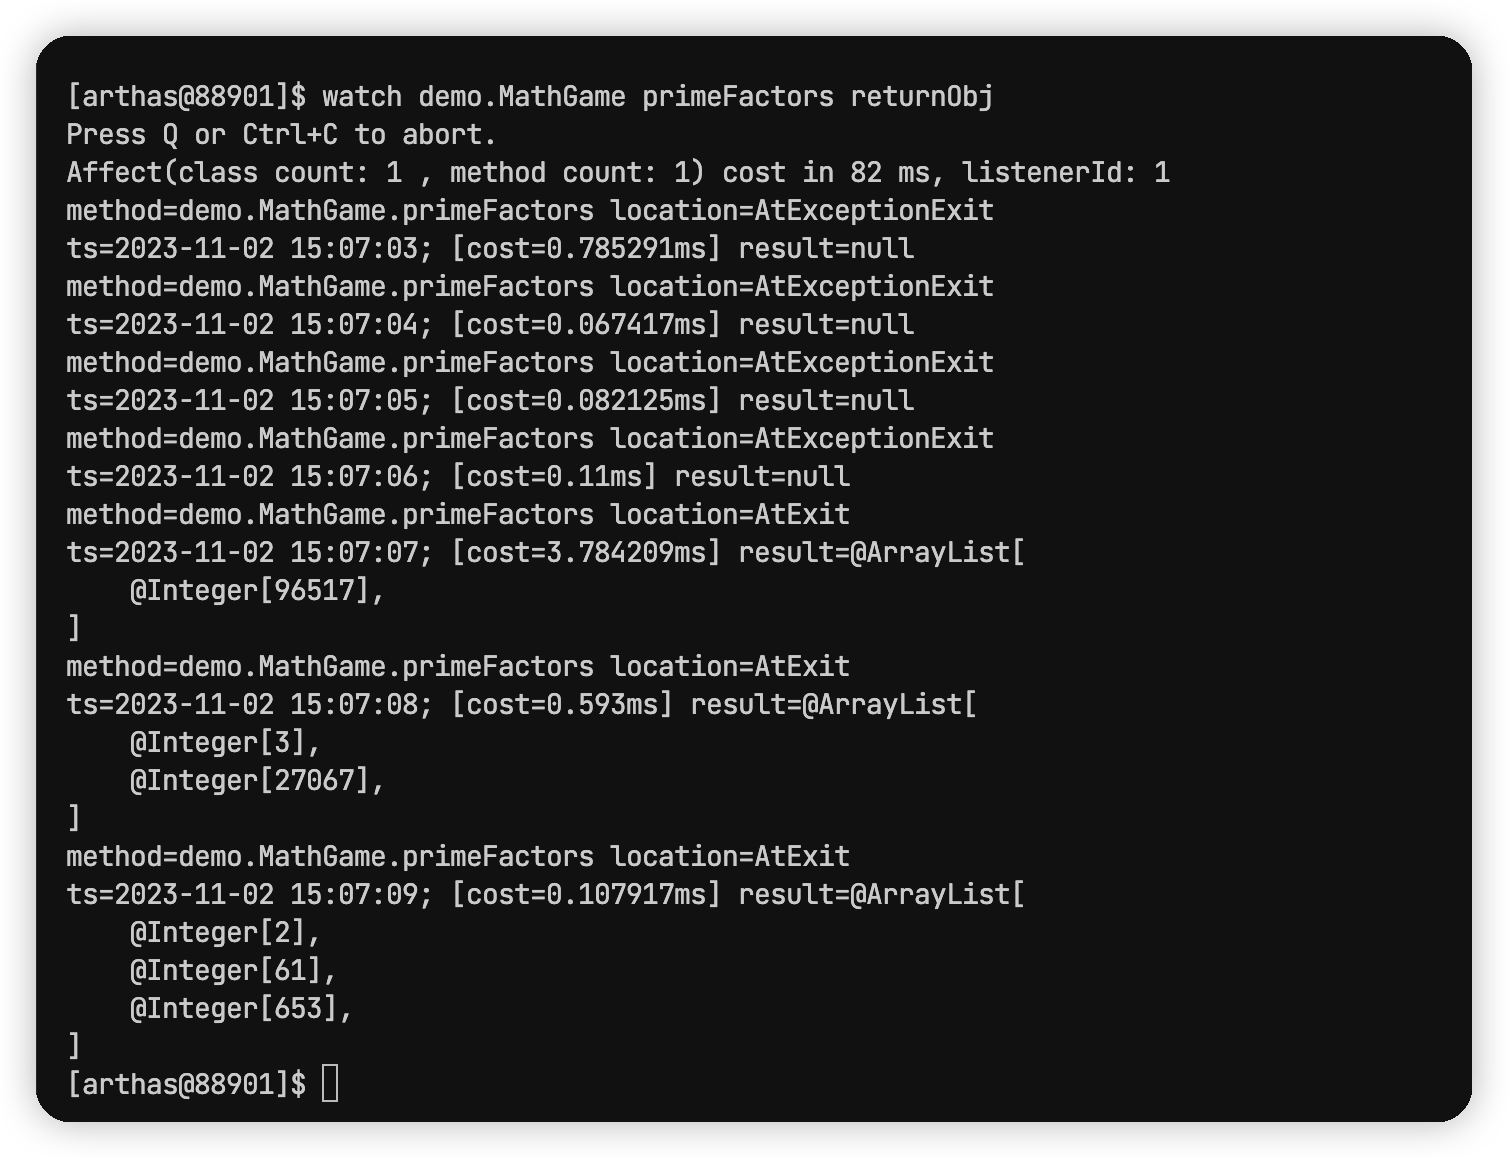
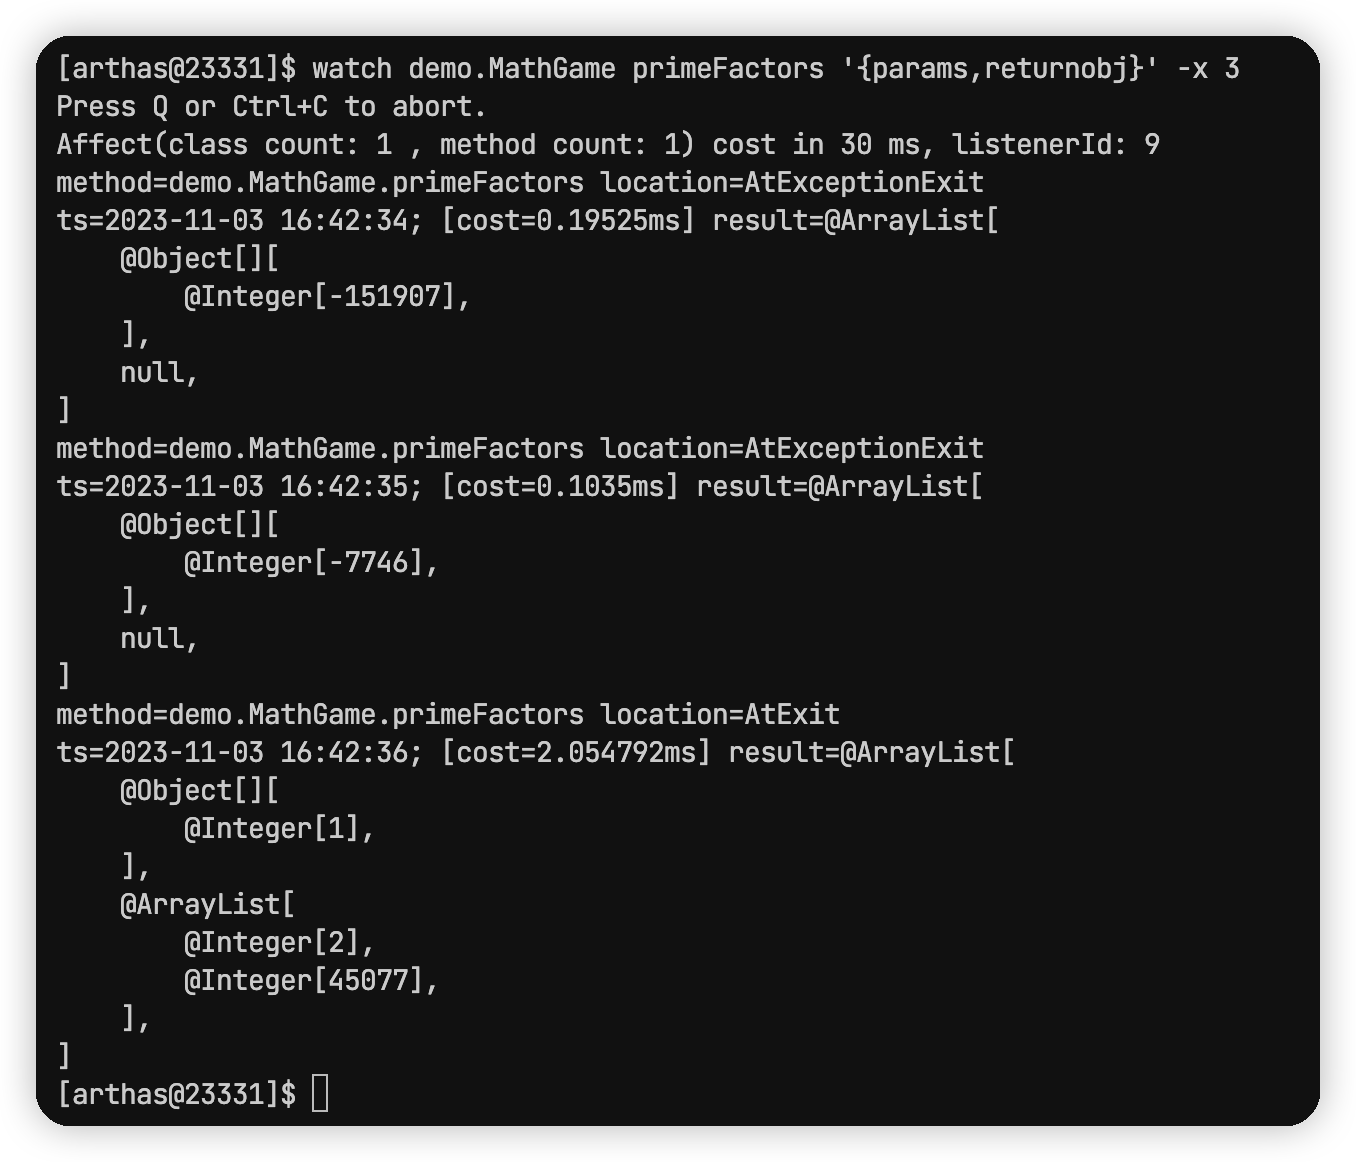
supply arthas context

Changed region(s): [[0.031, 0.0311, 0.8053, 0.9637], [0.7434, 0.0311, 0.8363, 0.0933], [0.9602, 0.9326, 0.9912, 0.9637]]

diff --git a/src/study/maintenance/arthas.md b/src/study/maintenance/arthas.md
@@ -60,27 +60,19 @@ color: rgba(173, 216, 590, 0.15)
 ### 退出
 如果只是退出当前的连接，可以用 quit 或者 exit 命令。Attach 到目标进程上的 arthas 还会继续运行，端口会保持开放，下次连接时可以直接连接上。如果想完全退出 arthas，可以执行stop命令。
 
-## 常用命令
-### dashboard
-显示当前系统的实时仪表板，可以通过 i 来指定刷新时间，默认是 5 毫秒刷新一次，可以通过 n 来指定刷新次数，按 ctrl+c 或者 q 退出。
+## 常用场景
+### 查找执行方法
+当我们遇到一个非常耗时的方法的时候，或者遇到代码问题需要定位的时候，我们可以使用 trace 命令来通过一步步缩小范围来找到耗时最长的方法，如果你并不熟悉代码或者不清楚具体在那个包下，只需要从最外层的包名开始查看，可以用 * 来代替不确定的路径，在多次看到红色最长时间的方法后就能明确具体方法了。
 
-![仪表板](/assets/images/study/maintenance/arthas/arthas-dashboard.png "仪表板")
+![查看方法耗时](/assets/images/study/maintenance/arthas/arthas-trace.png '查看方法耗时')
 
-### thread
-查看当前线程信息，查看线程的堆栈。我们可以通过 thread 命令默认按照 CPU 增量时间降序排列，只显示第一页线程的数据。
+### 查看源码解决问题
+如果我们已经知晓了问题代码的位置，可是源码我们又看不到，我们就可以用 jad 命令来反编译类名或者方法名来查看源码。
 
-![第一页线程信息](/assets/images/study/maintenance/arthas/arthas-thread.png "第一页线程信息")
+![反编译源码](/assets/images/study/maintenance/arthas/arthas-jad.png '反编译源码')
 
-在我们获取了线程 ID 之后我们就可以通过指定线程 ID 来查看目标线程的简单信息。
+### 查看某些方法出参入参
+如果我们想排查方法调用时一些方法的入参和出参，我们可以使用 watch 命令，如果是多层的结构，我们可以用 -x 【n】来指定查看解析数据的层数。
 
-![指定线程 ID 查看线程信息](/assets/images/study/maintenance/arthas/arthas-thread-id.png "指定线程 ID 查看线程信息")
+![监听方法参数](/assets/images/study/maintenance/arthas/arthas-watch.png '监听方法参数')
 
-### jad
-反编译指定已加载类的源码。如果我们想要查看一个类的具体代码，可以使用 jad 进行反编译来查看，当然我们也可以精确到方法。
-
-![jad 反编译代码](/assets/images/study/maintenance/arthas/arthas-jad.png "jad 反编译代码")
-
-### watch
-函数执行数据观测，类似于一个在线的 debug 工具。我们这里查看 demo.MathGame 类中的 primeFactors 方法的返回结果，这里的 returnObj 是一个 OGNL 表达式。
-
-![查看 primeFactors 方法的返回值](/assets/images/study/maintenance/arthas/arthas-watch.png "查看 primeFactors 方法的返回值")
